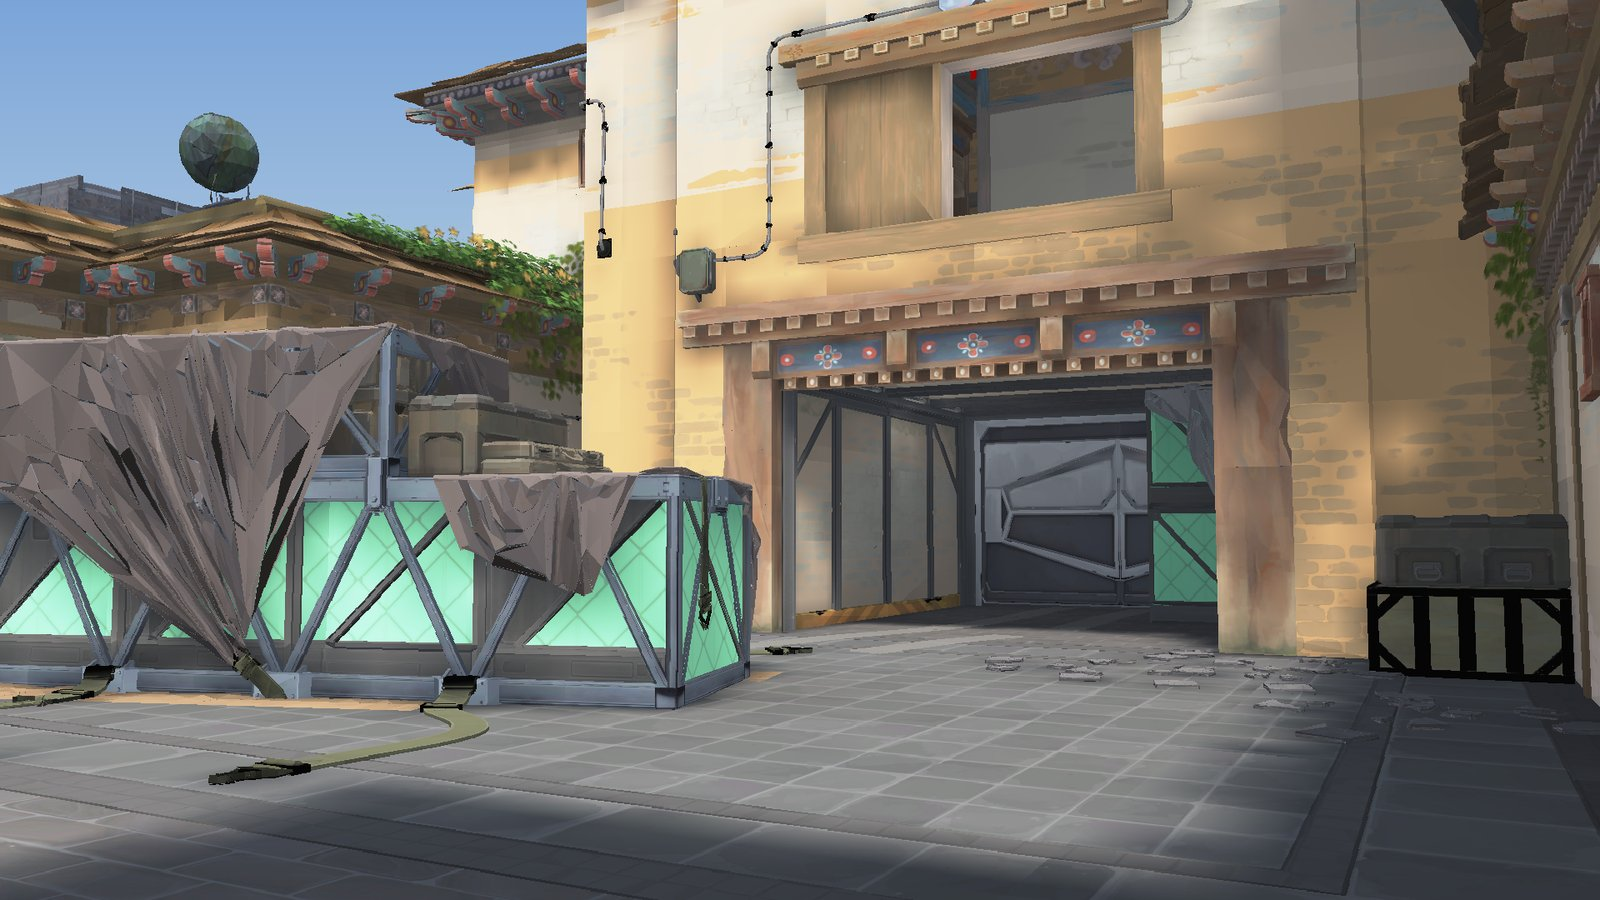
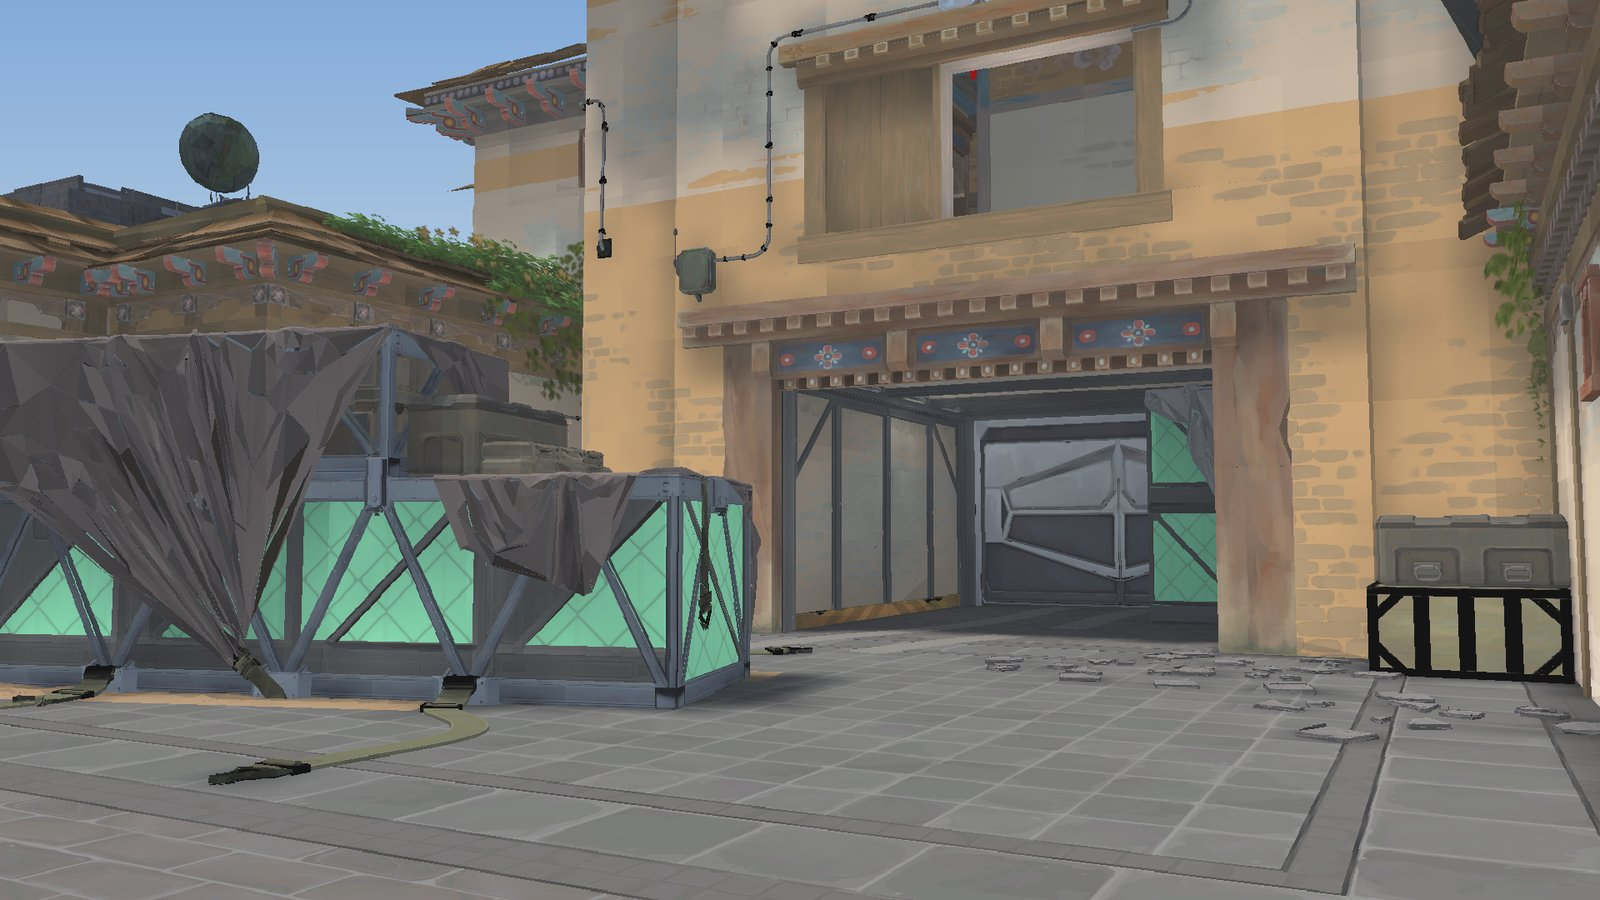
Move the Haven map to its own repository as the maps/haven submodule
- Move the Haven map to its own repository

- Shorten the README's Haven section to a line and a link

- Re-render the Haven screenshots with the new sun and two bounces

- Add Haven as the maps/haven submodule and ignore the converter

diff --git a/README.md b/README.md
@@ -110,6 +110,16 @@ Maps are JSON files; `maps/school.json` documents the format in comments at the 
 
 ## Haven
 
+A section of VALORANT's Haven converted for this engine. The map is a submodule at `maps/haven`,
+kept in its own repository, [ColumnRay-Haven](https://github.com/Arstoienn/ColumnRay-Haven),
+because it is about 290 MB:
+
+```bash
+git clone --recursive https://github.com/Arstoienn/ColumnRay.git   # or, in an existing clone:
+git submodule update --init maps/haven
+JAVA_OPTS=-Xmx12g ./run.sh maps/haven/haven.json --feet 3
+```
+
 **Mid Doors**
 
 ![Mid Doors](docs/images/mid-doors.jpg)
@@ -137,29 +147,6 @@ it. Beneath each view is its ray view, the engine's top-down debug window (`R`),
 column's ray over the plan of the map and lists, for the centre column, each shape the ray met and
 how many rows it filled.
 
-The map is a 64 m by 64 m section of Haven, a map from VALORANT, converted triangle by triangle
-from a Blender scene: about 930,000 shapes and 408 baked material textures. It is not part of this
-repository: the converter writes it to `maps/haven.json` from a `.blend` file you supply yourself,
-and those paths are git-ignored - see the disclaimer. All of the screenshots above are rendered by
-this engine with baked lighting. Mid Doors, Garage and C Long are inside that section. Flowerpot,
-Heaven and Hell are at A site, outside it, and were rendered from a separate conversion of that
-area.
-
-```bash
-JAVA_OPTS=-Xmx12g ./run.sh maps/haven.json --flat --feet 3   # flat shading, loads in about 10 s
-JAVA_OPTS=-Xmx12g ./run.sh maps/haven.json --feet 3          # baked lighting
-```
-
-- The first launch with lighting bakes it, which takes about 15 minutes on an 8-core Apple M3 and
-  uses around 6 GB of memory. The result is kept in `.lightcache/`, and later launches read it
-  back in a few seconds.
-- A 1280x720 frame takes roughly 110-150 ms on the same machine, limited by per-pixel texture
-  filtering on the CPU.
-- Beyond the converted section the map ends in open sky.
-
-Source: [Valorant - Heaven Map](https://open3dlab.com/project/4a0d5de0-05ac-4db3-a53b-6555879bc29d/)
-by AC_NONE on Open3DLab, licensed CC BY-NC-ND 4.0. See the disclaimer below.
-
 ## Benchmarking and verification
 
 - `./bench.sh [map] [size] [runs]` runs `--bench` in several fresh JVMs and reports the median.
@@ -186,23 +173,22 @@ by AC_NONE on Open3DLab, licensed CC BY-NC-ND 4.0. See the disclaimer below.
 | `src/engine/Keys.java` | Physical key state |
 | `src/engine/Json.java` | JSON parser (supports `//` comments) |
 | `maps/school.json` | Demo map |
-| `maps/haven.json`, `maps/haven/`, `maps/haven-img/`, `maps/haven-tex.png` | Where the converter writes the Haven section if you build it: header, shape chunks, material images, texture atlas. Git-ignored |
+| `maps/haven/` | Submodule: the Haven map, in [ColumnRay-Haven](https://github.com/Arstoienn/ColumnRay-Haven) |
 | `docs/images/` | README screenshots |
 | `docs/ENGINEERING.md` | Design notes, measurements and the reasoning behind each subsystem |
 
 ## License
 
 The source code is released under the MIT License; see [LICENSE](LICENSE). The license does not
-cover the Haven screenshots, or a Haven conversion you build yourself; see the disclaimer.
+cover the Haven screenshots; see the disclaimer.
 
 ## Disclaimer
 
-The screenshots in `docs/images/` are rendered from a map derived from "Valorant - Heaven Map" by
-AC_NONE on Open3DLab (CC BY-NC-ND 4.0), which contains assets from VALORANT. VALORANT and Haven
-are trademarks and copyrighted works of Riot Games, Inc. This project is not affiliated with or
-endorsed by Riot Games. The screenshots are included for non-commercial demonstration only, remain
-the property of their respective owners, and are not covered by this repository's MIT License.
-
-No Riot Games assets are distributed with this repository. The converted map and textures
-(`maps/haven.json`, `maps/haven/`, `maps/haven-img/`, `maps/haven-tex.png`) are generated locally
-from a `.blend` file you supply yourself, and are excluded from version control.
+The screenshots in `docs/images/` are rendered from a map derived from
+["Valorant - Heaven Map"](https://open3dlab.com/project/4a0d5de0-05ac-4db3-a53b-6555879bc29d/) by
+AC_NONE on Open3DLab (CC BY-NC-ND 4.0), which contains assets from VALORANT. The map itself is not
+part of this repository; it is published separately in
+[ColumnRay-Haven](https://github.com/Arstoienn/ColumnRay-Haven). VALORANT and Haven are trademarks
+and copyrighted works of Riot Games, Inc. This project is not affiliated with or endorsed by Riot
+Games. The screenshots are included for non-commercial demonstration only, remain the property of
+their respective owners, and are not covered by this repository's MIT License.
